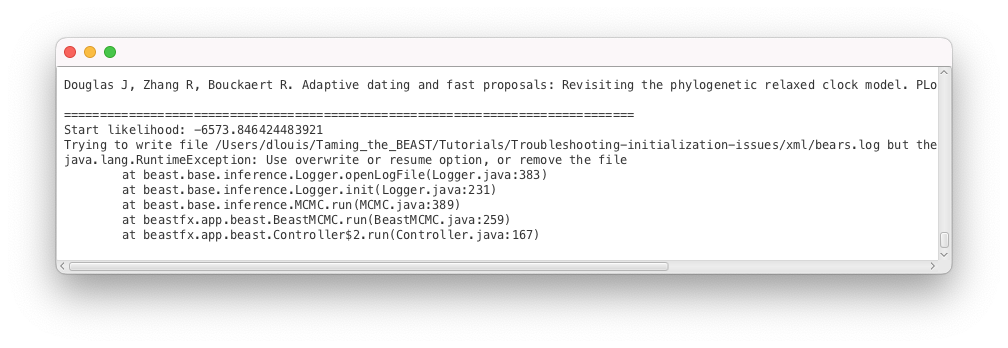
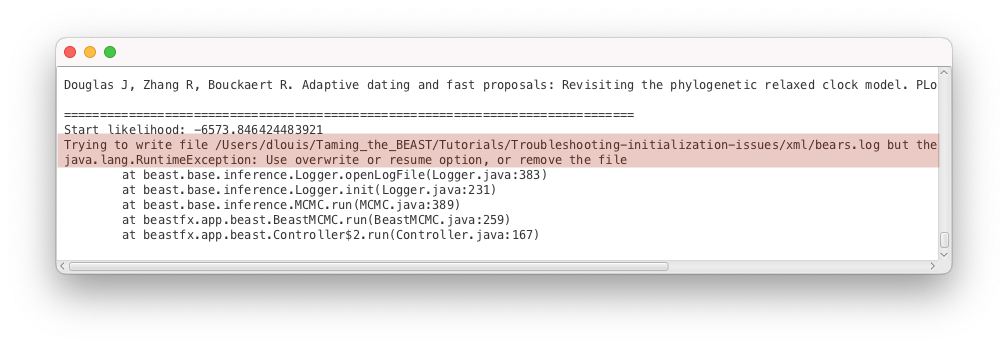
Rebuilt site (Updates to initialization tutorial)

Changed region(s): [[0.0308, 0.3736, 0.9534, 0.4885]]

diff --git a/tutorials/Troubleshooting-initialization-issues/index.html b/tutorials/Troubleshooting-initialization-issues/index.html
@@ -418,7 +418,7 @@
 </figure>
 <p><br /></p>
 
-<p>The reason for uninstalling the MM package will become clear later. If the MM package wasn’t installed then clicking uninstall will have no effect.</p>
+<p>The reason for uninstalling the MM package will become clear later. Note that uninstalling <strong>MM</strong> will also necessitate uninstalling any installed packages that depend on it. Please remember to reinstall these packages after finishing this tutorial! If the MM package wasn’t installed then clicking uninstall will have no effect.</p>
 
 <p>BEAUti needs to be closed for the newly installed packages to be loaded properly.</p>
 
@@ -448,7 +448,7 @@
 </figure>
 <p><br /></p>
 
-<p>This error means that BEAST2 could not identify one of the components of the analysis in the XML file. The error message shows which component is unidentified, in this example the class <em>morphmodels.evolution.substitutionmodel.LewisMK</em>, as well as the program’s closest guess for what the component could be, here <em>beastlabs.inference.ML</em>. BEAST2 also shows you roughly where the reference to the missing component was found within the hierarchical structure of the XML file (here it is the substitution model, inside the site model, inside the tree likelihood, and so on).</p>
+<p>This error means that BEAST2 could not identify one of the components of the analysis in the XML file. We have helpfully highlighted the important part of the error message in <a href="#errorPackage">Figure 4</a>. It shows which component is unidentified, in this example the class <em>morphmodels.evolution.substitutionmodel.LewisMK</em>, as well as the program’s closest guess for what the component could be, here <em>beastlabs.inference.ML</em>. BEAST2 also shows you roughly where the reference to the missing component was found within the hierarchical structure of the XML file (here it is the substitution model, inside the site model, inside the tree likelihood, and so on).</p>
 
 <p>There are two main causes for this error:</p>
 
@@ -699,9 +699,9 @@ Is this a problem? If no prior distribution is set in the XML file, what prior i
 
 If no prior is set for a parameter the implicit prior becomes a uniform distribution between the parameter bounds. In the case of the mutation rate (called <i>mutationRate.s:bears_morphology2</i> in the XML file), no bounds are set either, so it inherits the default bounds of a real parameter in BEAST2, which is between negative and positive infinity. 
 <br /><br />
-In this case it doesn't make any difference. Although the parameter is estimated, the Delta exchange operator on it parameter constrains it to be always equal to one (it would probably have made more sense to just fix the parameter though). 
+In this case it doesn't make any difference. Although the parameter is estimated, the Delta exchange operator that acts on it constrains it to always be equal to one (it would probably have made more sense to just fix the parameter though). 
 <br /><br />
-In general though, an unbounded uniform prior is a bad idea for most parameters for exactly the same reasons it is a bad choice for the clock rate. 
+In general, an unbounded uniform prior is a bad idea for most parameters for exactly the same reasons it is a bad choice for the clock rate. 
 More importantly, "hidden" priors like these are a problem when doing model selection. An unbounded uniform prior is an improper prior (there exists no normalising constant that can make it integrate to 1, so it integrates to infinity). Improper priors can cause issues with model selection if the posterior then also integrates to infinity. In general it's impossible to know if using an improper prior will lead to a proper posterior, so it is recommended to not use improper priors (we can only know if the posterior is proper if we can analytically integrate it, which is usually not the case for BEAST models). It is always possible to set some sensible parameter bounds, so we can always make all of our priors proper. 
 <br /><br />
 Finding out if there are "hidden" priors in your model is more complex, especially when the BEAUti template for a model doesn't explicitly initialize priors for all model parameters. You can navigate to the <b>Initialization</b> panel in BEAUti (click <b>View &gt; Show Initialization panel</b> to display it) to check if all model parameters also have prior distributions set (by comparing with the <b>Priors</b> panel), but it is unfortunately not possible to add a missing prior from BEAUti. If you've identified such a model parameter then you would need to add the prior by manually editing the XML file. It is also a good idea to contact the package developers, so they can address the issue in future releases.
@@ -742,8 +742,11 @@ Finding out if there are "hidden" priors in your model is more complex, especial
 <blockquote>
   <p>Open the <code class="language-plaintext highlighter-rouge">issue3b.xml</code> file in a text editor.</p>
   <ul>
-    <li>Look for the parameter <strong>originFBD.t:bears</strong> and examine its initial value.</li>
-    <li>Look for the root prior <strong>root.prior</strong> and examine its distribution. Look in particular at the values for the <strong>offset</strong>, <strong>M</strong> and <strong>S</strong> parameters.</li>
+    <li>Look for where the parameter <strong>originFBD.t:bears</strong> is defined in the XML file and examine its initial value. (It is defined within the <code class="language-plaintext highlighter-rouge">&lt;state&gt;</code> block)</li>
+    <li>The initial value is the unlabelled value just before the closing <code class="language-plaintext highlighter-rouge">&lt;/parameter&gt;</code> tag.</li>
+    <li>Look for the root prior <strong>root.prior</strong> and examine its distribution.</li>
+    <li>The root prior’s distribution is inside the prior, the <code class="language-plaintext highlighter-rouge">&lt;distribution id="prior" spec="CompoundDistribution"&gt;</code> block, and within the prior is inside the <code class="language-plaintext highlighter-rouge">&lt;distribution id="root.prior"</code> block, after the taxon set defining all the taxa included in this MRCA prior.</li>
+    <li>Look in particular at the values for the <strong>offset</strong>, <strong>M</strong> and <strong>S</strong> parameters.</li>
   </ul>
 
 </blockquote>
@@ -770,7 +773,7 @@ Finding out if there are "hidden" priors in your model is more complex, especial
 
 </blockquote>
 
-<p>Here the incompatibility stemmed from us setting a root prior with an offset. However, this issue can also happen when using a user-specified starting tree, for instance a tree from a Newick string. In this case the origin parameter needs to be compatible with the specified tree, i.e. the initial value of the origin needs to be higher than the root of the Newick tree. Finally, it is also entirely possible for this issue to occur even when using a default randomly initialized tree.</p>
+<p>Here the incompatibility stemmed from us setting a root prior with an offset. This scenario is a little contrived, however setting a root prior is not the only way this issue can occur! It can also happen when using a user-specified starting tree, for instance a tree from a Newick string. In such a case the origin parameter needs to be compatible with the specified tree, i.e. the initial value of the origin needs to be higher than the root of the Newick tree. Finally, it is also entirely possible for this issue to occur even when using a default randomly initialized tree.</p>
 
 <p>Some other common cases where inconsistencies between model components can lead to initialization failures are:</p>
 
@@ -857,7 +860,7 @@ Click on the arrow left of the <strong>root.prior</strong> to see the details of
   <p>Open Icytree (<a href="https://icytree.org/">https://icytree.org/</a>) in a web browser.</p>
 
   <ul>
-    <li>Copy the Newick string from the <strong>Starting tree</strong> panel or from the XML file.</li>
+    <li>Copy the Newick string from the <strong>Starting tree</strong> panel or from the XML file. Make sure that you copy the whole string, up to the semi-colon at the end (it may be easiest to double or triple click on it to select everything).</li>
     <li>In the IcyTree browser window click <strong>File &gt; Enter tree directly</strong>.</li>
     <li>Paste the copied Newick string and press <strong>Done</strong> to display the tree in IcyTree.</li>
   </ul>
@@ -1000,7 +1003,7 @@ Yes, it still makes a difference! Although each analysis will start from the exa
   <p>Open a terminal and navigate to the directory where you want to save the BEAST2 XML manual</p>
 
   <ul>
-    <li>Type <code class="language-plaintext highlighter-rouge">&lt;beast2 path&gt;/bin/applauncher DocMaker .</code> where <code class="language-plaintext highlighter-rouge">&lt;beast 2 path&gt;</code> should be replaced with the directory where BEAST2 is installed.</li>
+    <li>Type <code class="language-plaintext highlighter-rouge">&lt;beast2 path&gt;/bin/applauncher DocMaker .</code> where <code class="language-plaintext highlighter-rouge">&lt;beast 2 path&gt;</code> should be replaced with the directory where BEAST2 is installed. For instance, if you’re using a Mac and you installed BEAST v2.7.4 in the default location, you would need to type <code class="language-plaintext highlighter-rouge">/Applications/BEAST\ 2.7.4/bin/applauncher DocMaker .</code></li>
     <li>Now open the newly generated <code class="language-plaintext highlighter-rouge">index.html</code> in any browser.</li>
   </ul>
 
